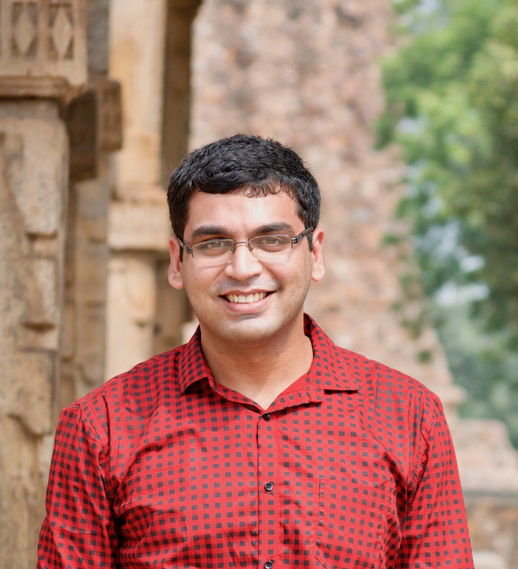
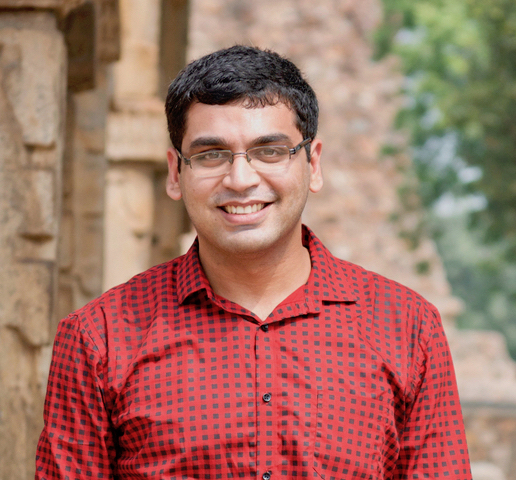
min

diff --git a/index.html b/index.html
@@ -32,7 +32,7 @@
 				<article class="container" id="top">
 					<div class="row">
 						<div class="4u 12u(mobile)">
-							<span class="image featured"><img src="images/nipun_4.jpg" alt="" /></span>
+							<span class="image"><img src="images/nipun_4.jpg" alt="" /></span>
 						</div>
 						<div class="8u 12u(mobile)">
 							<header>

diff --git a/assets/css/main.css b/assets/css/main.css
@@ -1690,11 +1690,11 @@
 /* Articles */
 
 	#top .image {
-		border-radius: 50%;
+		border-radius: 10%;
 	}
 
 		#top .image img {
-			border-radius: 50%;
+			border-radius: 20%;
 		}
 
 	#top p a {
